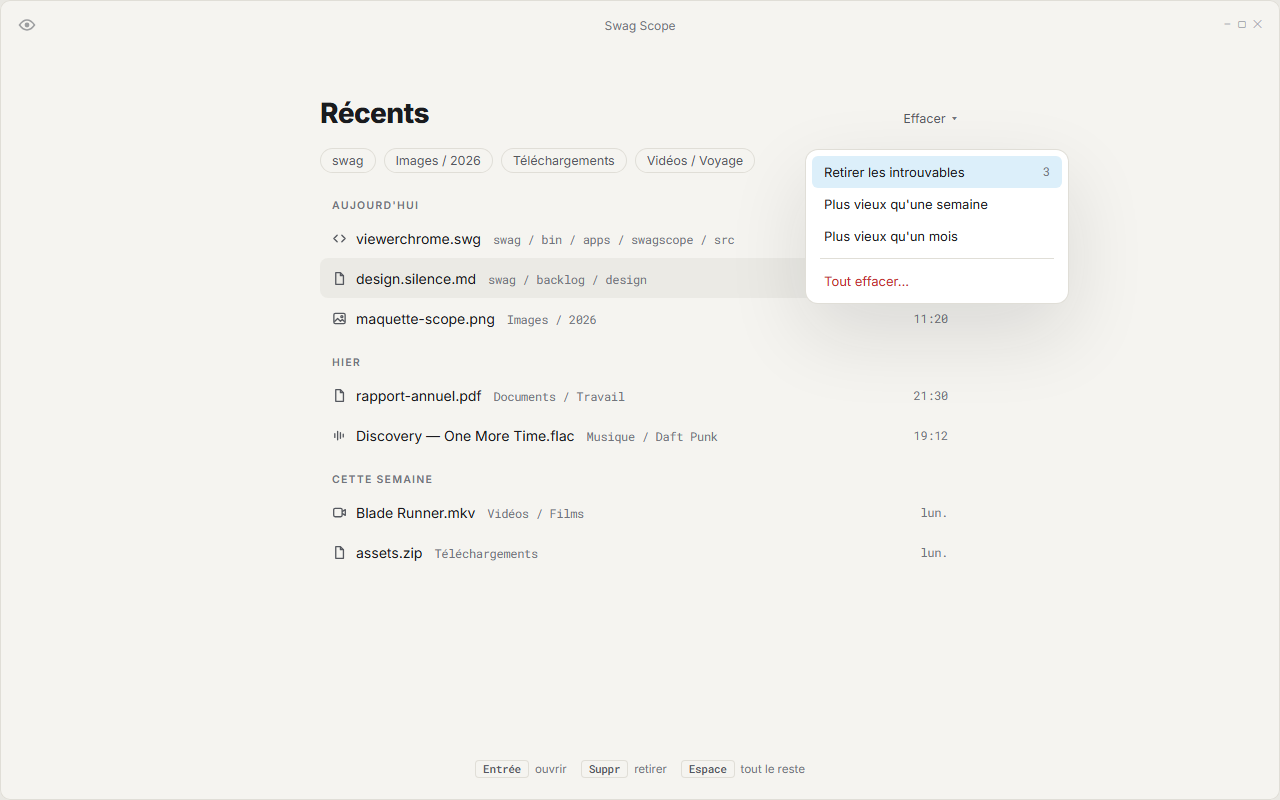
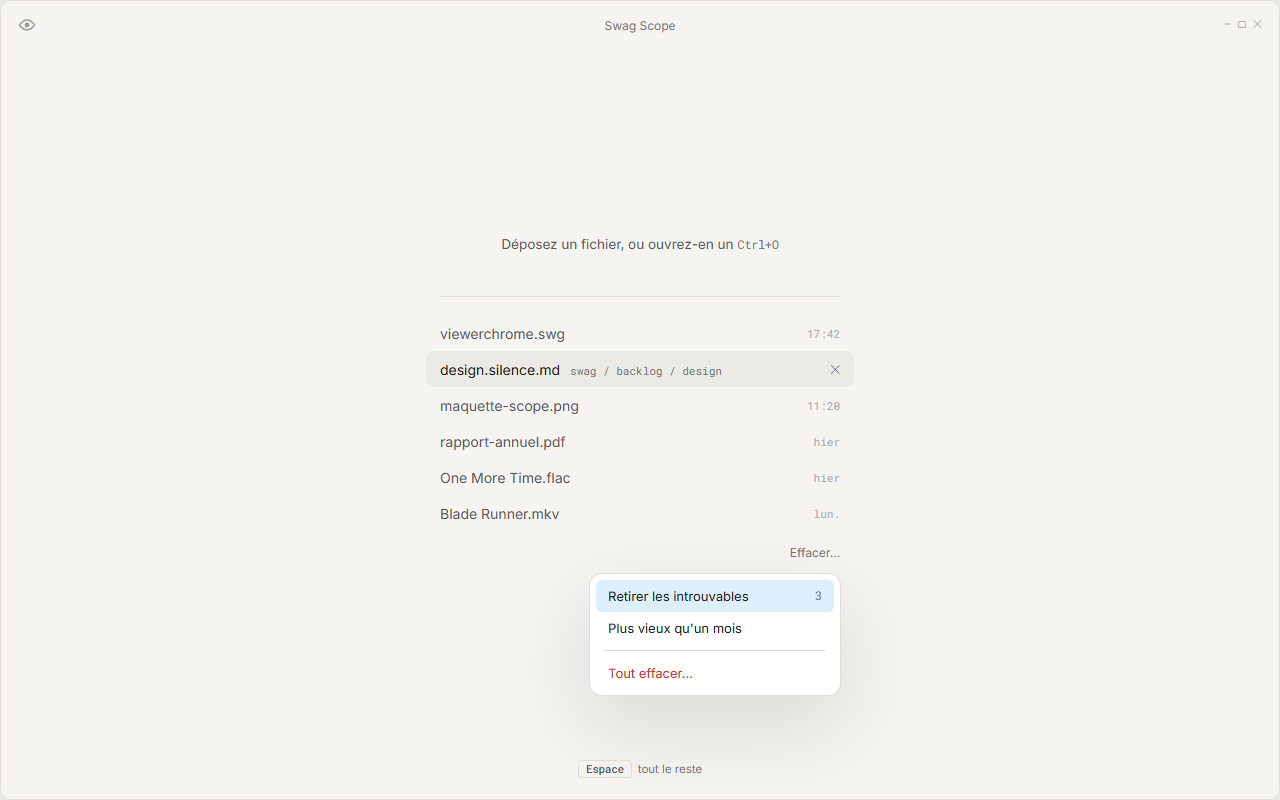
Quiet the Swag Scope home: one invitation and six plain rows, clearing on the pointer

diff --git a/backlog/design/README.md b/backlog/design/README.md
@@ -324,12 +324,14 @@ the screen to its work.
 
 ![Home](imgs/scope.home.png) ![Home, clearing the history](imgs/scope.home.paper.png)
 
-- Home: the window without a file is the history. A page title ("Recent"), the recent folders as
-  chips, then the recent files grouped by day under section labels: a glyph of the kind, the
-  name, the folder in faint mono, the time in faint mono. Enter opens, Delete (or the faint `×`
-  of the row under the pointer) removes one entry. "Clear ▾" offers the partial clears — the
-  entries whose file is gone (with their count), older than a week, older than a month — and,
-  apart and in critical ink, clearing everything, which asks first.
+- Home: the empty window stays quiet. One line invites a drop or `Ctrl+O`; under a hairline,
+  the last six files as plain rows — the name in soft, the time in faint mono — and nothing else:
+  no title, no glyphs, no paths, no groups. The row under the pointer comes up on the raised
+  ground with its folder in faint mono and a faint `×` that removes it from the history (Delete
+  does the same on the chosen row). "Clear…", faint under the list, appears with the pointer and
+  offers the partial clears — the entries whose file is gone, with their count, the entries
+  older than a month — and, apart and in critical ink, clearing everything, which asks first.
+  Older entries are in the lens under `/`.
 
 ![Archive](imgs/scope.archive.png) ![Archive on Papier](imgs/scope.archive.paper.png)
 

diff --git a/backlog/design/design.silence.md b/backlog/design/design.silence.md
@@ -91,7 +91,7 @@ dialogs, then each application, then the written rules.
   panel open, its tools covering the title.
   The window without a file shows a drop invitation where its picture (`scope.home`) shows the
   history, with its partial and full clears.
-- Next: build the home on `scope.home` and `scope.home.paper` (history by day, recent folders,
+- Next: build the home on `scope.home` and `scope.home.paper` (the six last files as quiet rows,
   removal of one entry, partial clears, full clear with a question); rebuild each viewer on its
   picture — `scope.read`, `scope.text.paper`, `scope.markdown.paper`, `scope.hex`,
   `scope.font.paper`, `scope.video`, `scope.image`, `scope.pdf.paper`, `scope.sound`,
